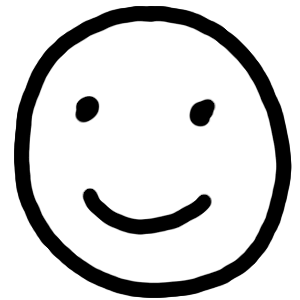
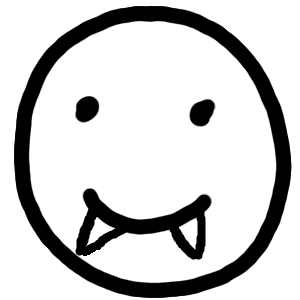
Tried and failed to change stuff
:P fml

Changed region(s): [[0.24, 0.69, 0.42, 0.87], [0.57, 0.69, 0.69, 0.87]]

diff --git a/Assets/Player_2_script.cs b/Assets/Player_2_script.cs
@@ -22,17 +22,17 @@ public class Player_2_script : MonoBehaviour
 
     private void Awake()
     {
-        //The one thing I do that's a little fancy is
+          //The one thing I do that's a little fancy is
           //I record the player to a static variable
           //so they're easy to find
-        Player2 = this;
+          Player2 = this;
 
     }
 
     void Update()
     {
         //Player 2 is scary, enemies within range becomes scared
-        
+        //Player2 = scary true;
             
 
         //You've seen this movement code before

diff --git a/Assets/Top Down/Scripts/MonsterController.cs b/Assets/Top Down/Scripts/MonsterController.cs
@@ -34,6 +34,10 @@ public class MonsterController : MonoBehaviour
         //Vector3 offset2 = transform.position - Target.transform.position;
         //RB.linearVelocity = offset.normalized * Speed;
 
+        //if (Player2 = scary) true;
+        //-transform.position - Player2.transform.position;
+        
+
     }
 
     //If I get hit by a bullet. . .
